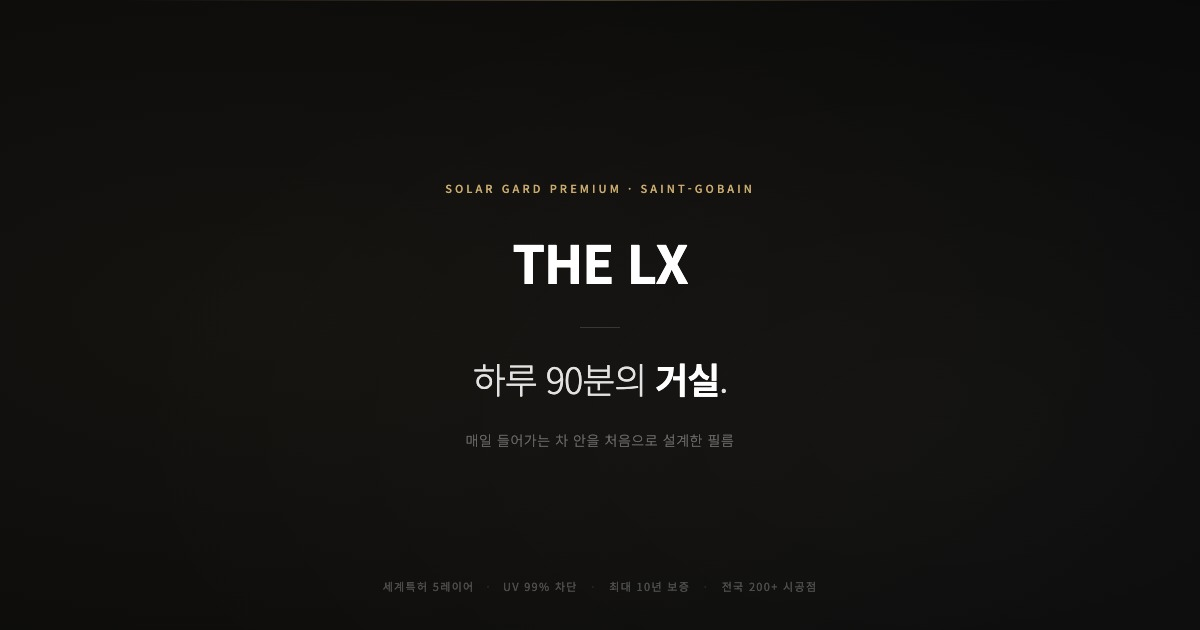
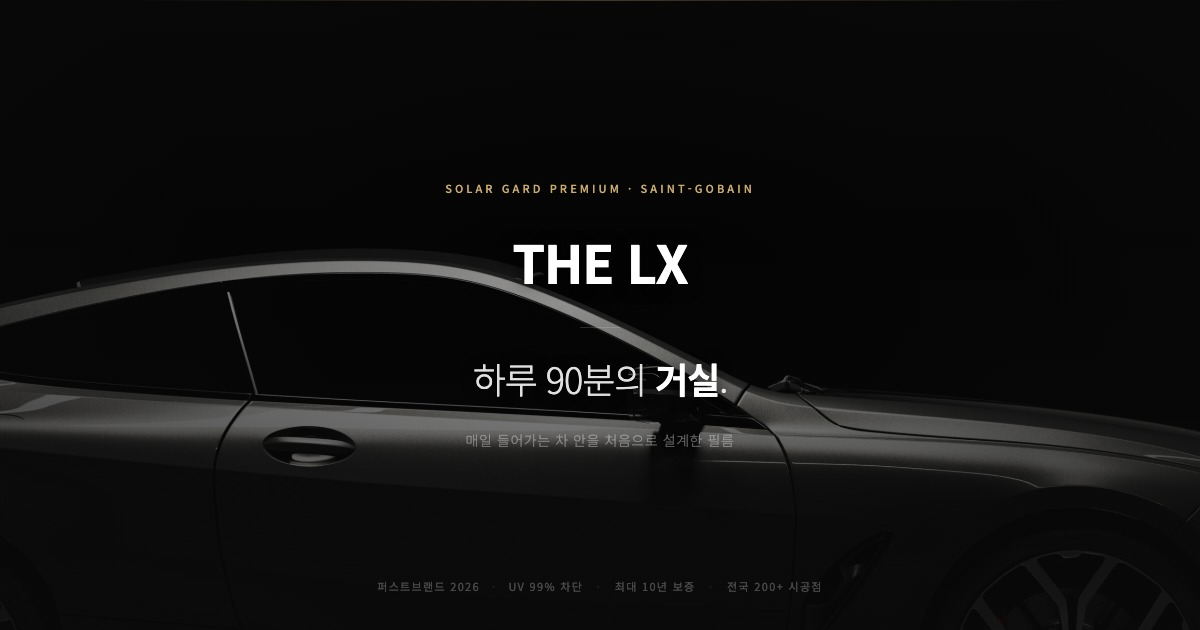
OG 공유 이미지 갱신: 차량 사진 배경 + 폐기 문구 제거
og-image.html 배경을 why-car-side.jpg로 교체하고 어두운 오버레이 적용,
og-image.jpg 재생성("세계특허 5레이어" 폐기 문구 제거).
index.html·story.html 공유 이미지 참조를 og-image.jpg로 통일.

diff --git a/story.html b/story.html
@@ -17,17 +17,17 @@
   <meta property="og:title" content="우리의 이야기 — THE LX | 브랜드 매니페스토">
   <meta property="og:description" content="차 안에서 보내는 시간은 인생의 일부다. 우리가 믿는 것, 우리가 하는 일.">
   <meta property="og:url" content="https://isolargard.com/story.html">
-  <meta property="og:image" content="https://isolargard.com/why-car-side.jpg">
+  <meta property="og:image" content="https://isolargard.com/og-image.jpg">
   <meta property="og:image:width" content="1200">
   <meta property="og:image:height" content="630">
-  <meta property="og:image:alt" content="THE LX 시공 차량 — 다크 스튜디오 컷">
+  <meta property="og:image:alt" content="THE LX — 차량 위 '하루 90분의 거실' 브랜드 공유 카드">
   <meta property="og:locale" content="ko_KR">
 
   <!-- Twitter Card -->
   <meta name="twitter:card" content="summary_large_image">
   <meta name="twitter:title" content="우리의 이야기 — THE LX | 브랜드 매니페스토">
   <meta name="twitter:description" content="차 안에서 보내는 시간은 인생의 일부다. 우리가 믿는 것.">
-  <meta name="twitter:image" content="https://isolargard.com/why-car-side.jpg">
+  <meta name="twitter:image" content="https://isolargard.com/og-image.jpg">
 
   <!-- JSON-LD: Organization -->
   <script type="application/ld+json">
@@ -48,7 +48,7 @@
     "@type": "Article",
     "headline": "우리는 차 안에서 보내는 시간이 인생의 일부라고 믿습니다.",
     "description": "THE LX 브랜드 매니페스토. 차 안을 공간으로 설계한 최초의 윈도우 필름.",
-    "image": "https://isolargard.com/why-car-side.jpg",
+    "image": "https://isolargard.com/og-image.jpg",
     "author": {
       "@type": "Organization",
       "name": "THE LX"

diff --git a/index.html b/index.html
@@ -17,17 +17,17 @@
 <meta property="og:title" content="THE LX — 차 안을 공간으로 설계하는 자동차 윈도우 필름">
 <meta property="og:description" content="Saint-Gobain 나노세라믹 정밀 기술. AIMCAL Tech of the Year 2회 수상. 전국 200+ 공식 인증 시공점, 최대 10년 보증.">
 <meta property="og:url" content="https://isolargard.com/">
-<meta property="og:image" content="https://isolargard.com/why-car-side.jpg">
+<meta property="og:image" content="https://isolargard.com/og-image.jpg">
 <meta property="og:image:width" content="1200">
 <meta property="og:image:height" content="630">
-<meta property="og:image:alt" content="THE LX 시공 차량 — 다크 라이팅 스튜디오 컷">
+<meta property="og:image:alt" content="THE LX — 차량 위 '하루 90분의 거실' 브랜드 공유 카드">
 <meta property="og:locale" content="ko_KR">
 
 <!-- Twitter Card -->
 <meta name="twitter:card" content="summary_large_image">
 <meta name="twitter:title" content="THE LX — 차 안을 공간으로 설계하는 자동차 윈도우 필름">
 <meta name="twitter:description" content="Saint-Gobain 나노세라믹 정밀 기술. AIMCAL Tech of the Year 2회 수상. 최대 10년 보증.">
-<meta name="twitter:image" content="https://isolargard.com/why-car-side.jpg">
+<meta name="twitter:image" content="https://isolargard.com/og-image.jpg">
 
 <link rel="preconnect" href="https://fonts.googleapis.com">
 <link rel="preconnect" href="https://fonts.gstatic.com" crossorigin>

diff --git a/og-image.html b/og-image.html
@@ -10,7 +10,7 @@ body { background:#000; }
 .card {
   width: 1200px;
   height: 630px;
-  background: #0a0a0a;
+  background: #0a0a0a url('why-car-side.jpg') center / cover no-repeat;
   display: flex;
   flex-direction: column;
   justify-content: center;
@@ -20,14 +20,14 @@ body { background:#000; }
   font-family: 'Noto Sans KR', sans-serif;
 }
 
-/* 배경 그라디언트 */
+/* 차량 사진 위 어두운 오버레이 — 차체가 비치도록 약하게 */
 .card::before {
   content: '';
   position: absolute;
-  top: -40%; left: -20%;
-  width: 140%; height: 180%;
-  background: radial-gradient(ellipse at 30% 50%, rgba(200,169,110,0.06) 0%, transparent 60%),
-              radial-gradient(ellipse at 70% 60%, rgba(255,255,255,0.03) 0%, transparent 50%);
+  inset: 0;
+  background:
+    radial-gradient(ellipse at 50% 48%, rgba(10,10,10,0.28) 0%, rgba(10,10,10,0.55) 62%, rgba(10,10,10,0.72) 100%),
+    linear-gradient(180deg, rgba(10,10,10,0.38) 0%, rgba(10,10,10,0.12) 38%, rgba(10,10,10,0.48) 100%);
 }
 
 /* 상단 보더라인 */
@@ -62,6 +62,7 @@ body { background:#000; }
   font-weight: 700;
   letter-spacing: -0.02em;
   color: #ffffff;
+  text-shadow: 0 2px 16px rgba(0,0,0,0.7);
 }
 
 .divider {
@@ -76,6 +77,7 @@ body { background:#000; }
   letter-spacing: -0.03em;
   line-height: 1.3;
   color: rgba(255,255,255,0.88);
+  text-shadow: 0 2px 14px rgba(0,0,0,0.65);
 }
 
 .headline em {
